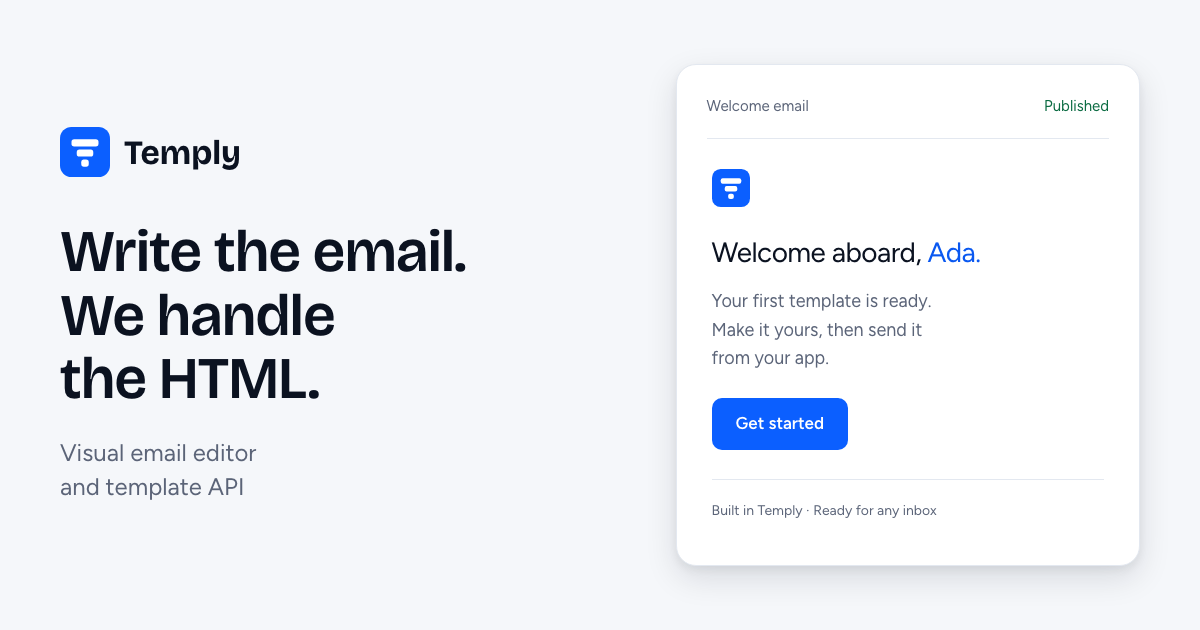
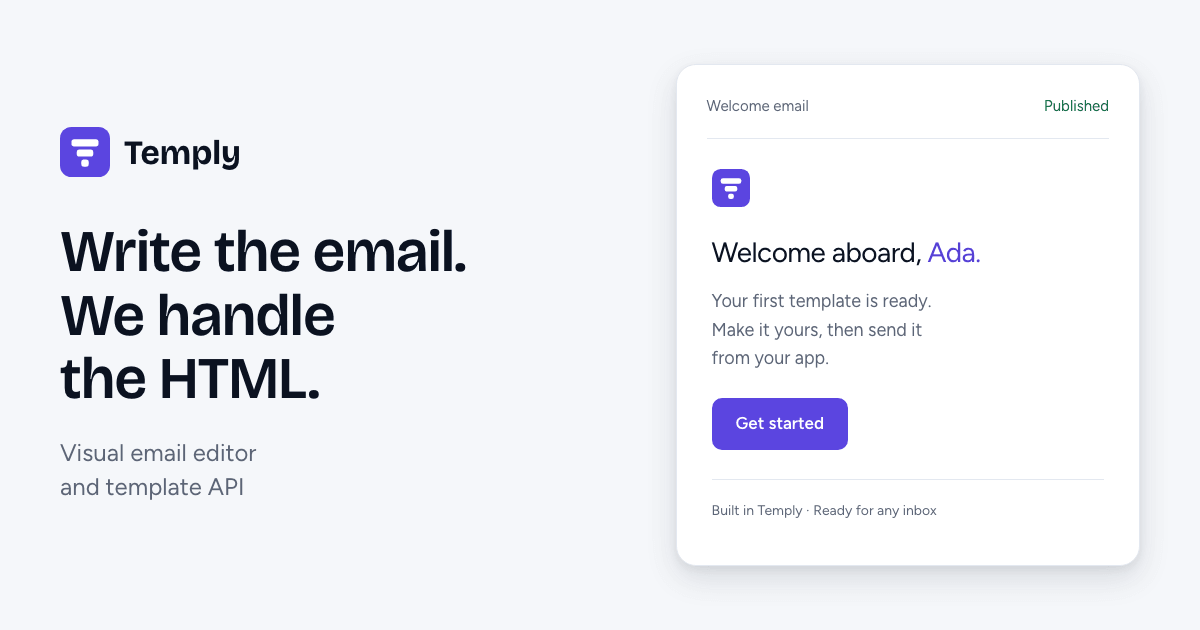
feat(brand): move the mark and social card from cobalt to the accent violet
The tile behind the mark, the favicon, the manifest theme colour, the
error page's button and the social card were still cobalt (#0B5FFF) while
the app had moved to #5B45E0. They now draw the accent, and mark.png and
logo.png are re-rendered from the SVG at 512x512 with the same silhouette.

Satori, the manifest and the error page (which renders when the layout,
and with it the stylesheet, did not) cannot read a CSS variable, so they
repeat the fill; brand-colour.test.ts fails when any of them drifts from
--ds-accent.

Starter email templates reference /brand/mark.png by URL, so their logos
now render violet too. The social card's neutrals are still the earlier
slate.

diff --git a/client/scripts/brand-colour.test.ts b/client/scripts/brand-colour.test.ts
@@ -1,0 +1,43 @@
+import { describe, expect, it } from 'bun:test';
+import { readFileSync } from 'node:fs';
+import { dirname, join } from 'node:path';
+import { fileURLToPath } from 'node:url';
+import { MARK_COLOUR } from '../app/mark';
+
+/**
+ * The brand mark is drawn in files that cannot read a CSS variable: two SVGs,
+ * the satori icon routes, the manifest, and the error page that renders when
+ * the layout (and with it the stylesheet) did not. They repeat `--ds-accent`,
+ * so this is the one place that notices when the token moves and they do not.
+ * The PNGs under public/ are rasters of the same fill and are re-rendered by
+ * hand when it changes.
+ */
+const client = join(dirname(fileURLToPath(import.meta.url)), '..');
+const read = (path: string) => readFileSync(join(client, path), 'utf8');
+
+const css = read('app/globals.css');
+const root = css.slice(css.indexOf(':root'), css.indexOf('\n}', css.indexOf(':root')));
+const accent = /--ds-accent:\s*(#[0-9a-fA-F]{6})/.exec(root)?.[1];
+
+describe('the brand mark follows the accent token', () => {
+  it('has an accent to follow', () => {
+    expect(accent).toBeDefined();
+  });
+
+  it('is drawn by the icon routes in the accent', () => {
+    expect(MARK_COLOUR.toLowerCase()).toBe(accent?.toLowerCase());
+  });
+
+  for (const svg of ['app/icon0.svg', 'public/brand/icon.svg']) {
+    it(`${svg} fills its tile with the accent`, () => {
+      const tile = /<rect[^>]*\sfill="(#[0-9a-fA-F]{6})"/.exec(read(svg))?.[1];
+      expect(tile?.toLowerCase()).toBe(accent?.toLowerCase());
+    });
+  }
+
+  it('the error page button, which has no stylesheet to read, uses the accent', () => {
+    const page = read('app/global-error.tsx');
+    const button = /background:\s*'(#[0-9a-fA-F]{6})'/.exec(page.slice(page.indexOf('<button')))?.[1];
+    expect(button?.toLowerCase()).toBe(accent?.toLowerCase());
+  });
+});

diff --git a/client/app/mark.tsx b/client/app/mark.tsx
@@ -1,10 +1,13 @@
 /**
  * The brand mark as an image response draws it: the same three bars on the
- * same blue as public/brand/icon.svg, in boxes rather than paths, because
+ * same violet as public/brand/icon.svg, in boxes rather than paths, because
  * the icon routes render JSX to PNG with satori and satori draws boxes.
  * Every measure is a share of the edge so one drawing serves every size.
+ *
+ * Satori and a manifest cannot read a CSS variable, so this repeats the
+ * `--ds-accent` fill; brand-colour.test.ts fails when the two drift.
  */
-export const MARK_BLUE = '#0B5FFF';
+export const MARK_COLOUR = '#5B45E0';
 
 export function Mark({ size }: { size: number }) {
   const bar = (left: number, top: number, width: number) => (
@@ -27,7 +30,7 @@ export function Mark({ size }: { size: number }) {
         height: size,
         display: 'flex',
         position: 'relative',
-        background: MARK_BLUE,
+        background: MARK_COLOUR,
         borderRadius: size * 0.23,
       }}
     >

diff --git a/client/app/manifest.ts b/client/app/manifest.ts
@@ -1,5 +1,5 @@
 import type { MetadataRoute } from 'next';
-import { MARK_BLUE } from './mark';
+import { MARK_COLOUR } from './mark';
 
 /** Served at /manifest.webmanifest: what a browser shows when the site is
  *  added to a home screen or installed. */
@@ -11,7 +11,7 @@ export default function manifest(): MetadataRoute.Manifest {
     start_url: '/dashboard',
     display: 'standalone',
     background_color: '#ffffff',
-    theme_color: MARK_BLUE,
+    theme_color: MARK_COLOUR,
     icons: [
       { src: '/brand/icon.svg', sizes: 'any', type: 'image/svg+xml', purpose: 'any' },
       { src: '/icon-192', sizes: '192x192', type: 'image/png' },

diff --git a/client/app/global-error.tsx b/client/app/global-error.tsx
@@ -41,7 +41,7 @@ export default function GlobalError({ error, reset }: { error: Error & { digest?
               padding: '0 0.75rem',
               borderRadius: '0.375rem',
               border: 0,
-              background: '#0b5fff',
+              background: '#5b45e0',
               color: '#fff',
               fontSize: '0.875rem',
               fontWeight: 500,
